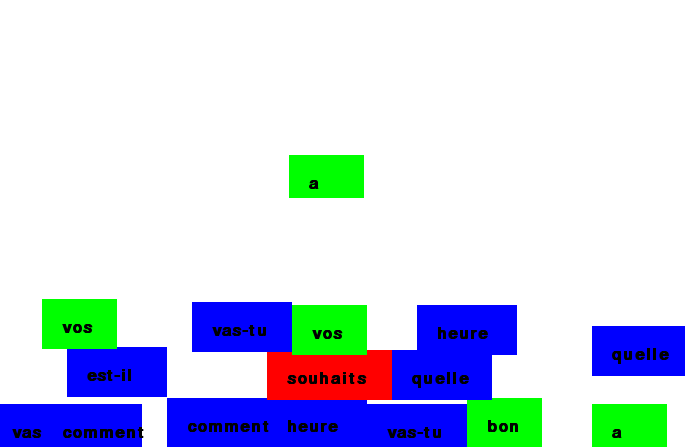
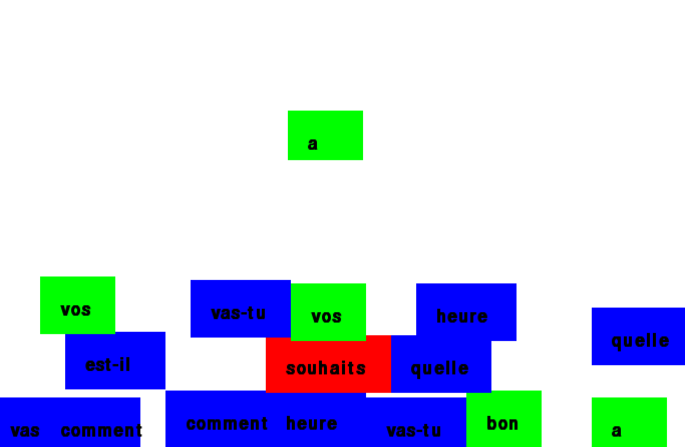
Allow user to use their own phrase list, and update README

diff --git a/language_tetris.py b/language_tetris.py
@@ -1,9 +1,13 @@
+import sys
 import pygame
 import graph_stuff
 import word_logic
 import block_builder
 import block_tracker
 import game_functions
+
+#phrases_file_name = sys.argv[1]
+#print phrases_file_name
 
 pygame.init()
 
@@ -16,7 +20,7 @@ pygame.display.set_caption("Language-Tetris")
 game_over = False #Runs until closed
 clock = pygame.time.Clock() ##Manage speed
 tracker = block_tracker.Tracker()
-sentences = word_logic.sentences
+phrases = word_logic.phrases
 graph = graph_stuff.create_graph()
 
 #Define colors
@@ -83,10 +87,10 @@ while not game_over:
 
                 for each_block in collided_with:
                     graph = graph_stuff.add_collision(graph, block, each_block) #add collision edges to graph
-                    sentence_forming_blocks = graph_stuff.search_graph(graph, sentences) #check if sentences formed
+                    sentence_forming_blocks = graph_stuff.search_graph(graph, phrases) #check if phrases formed
 
                     if sentence_forming_blocks:
-                        graph = graph_stuff.remove_nodes(graph, sentence_forming_blocks) #so no longer count to making sentences
+                        graph = graph_stuff.remove_nodes(graph, sentence_forming_blocks) #so no longer count to making phrases
                         for block in sentence_forming_blocks:
                             block.color = WHITE # white blocks will fall off the screen
                             tracker.remove_block_from_landed_sprites(block) #so no longer detect collisions while they are falling

diff --git a/word_logic.py b/word_logic.py
@@ -1,21 +1,23 @@
 import random
 import math
+import sys
 
-sentences = [
-['comment', 'vas-tu'],
-['bon', 'chance'],
-['quelle', 'heure', 'est-il'],
-['a', 'vos', 'souhaits']
-]
 
-#sentences_sets = [set(l) for l in sentences]
+def get_phrases():
+    if len(sys.argv) > 1:
+        filename = sys.argv[1]
+    else:
+        filename = 'phrases.txt'
+    with open(filename) as textfile:
+        phrases = [[word for word in line.strip().split(' ')] for line in textfile]
+    return phrases
+
+phrases = get_phrases()
+
+print phrases
 
 def get_word():
-    sentence = sentences[random.randint(0,(len(sentences)-1))]
-    word = sentence[random.randint(0,(len(sentence)-1))]
+    phrase = phrases[random.randint(0,(len(phrases)-1))]
+    word = phrase[random.randint(0,(len(phrase)-1))]
     units = math.floor(len(word)/4)
-    #print word, 'LENGTH: ', len(word), 'UNITS: ', units
     return word, units
-
-#def check_if_sentence(word1, word2):
-#    return set([word1, word2]) in sentences_sets

diff --git a/README.md b/README.md
@@ -1,25 +1,30 @@
-# Language Learning Tetris
+# Phrasis
 
-A version of the classic game for learning phrases in a new language.  Each block has a word, and adjacent blocks that form phrases in the correct order disappear.
+Phrasis is a tetris game for learning phrases.  Each block has a word, and adjacent blocks that form phrases in the correct order disappear.
 
 The game uses the pygame library for the interface, and uses [a graph to store data](https://github.com/Nasreen123/language_tetris/blob/master/Exploring%20graph%20algorithms%20for%20storing%20game%20data.ipynb).
- 
-Run language\_tetris.py to play (type ```python language_tetris.py``` into your terminal)
 
 
-<img src="screenshot_falling_block.png" 
-alt="Screenshot of the game, with a falling block" width="400"  style="border: 1px solid black;" />
+<img src="screenshot_falling_block.png"
+alt="Screenshot of the game, with a falling block" width="250"  style="border: 1px solid black;" />
 
-<img src="screenshot_phrase_formed.png" 
-alt="Screenshot of the game, as a phrase is formed" width="400" style="border: 1px solid black;" />
+<img src="screenshot_phrase_formed.png"
+alt="Screenshot of the game, as a phrase is formed" width="250" style="border: 1px solid black;" />
 
 
----------------------------------------------------
+## Usage
 
-Features to add:
+### Running the game
 
-* Horizontally align words to make phrases ✓
-* Detect longer phrases ✓
-* Blocks conform to a grid
-* Import phrases
+Save a copy of this code to your computer.  (Type ```git clone https://github.com/Nasreen123/language_tetris.git``` into your terminal).
 
+You must have pygame installed to play this game.  (Type ```pip install pygame``` or ```pip install -r requirements.txt``` into your terminal).  
+
+Run language\_tetris.py to play.  (Type ```python language_tetris.py``` into your terminal)
+
+### Using your own phrases
+
+To use your own set of phrases, save them in a text file in the same directory as the game.  Each phrase should be on it's own line, and each word should be separated by a space.
+
+Include the name of the file as an argument when you run the game.  If you named the file 'myphrases.txt', you would type:
+```python language_tetris.py myphrases.txt```
